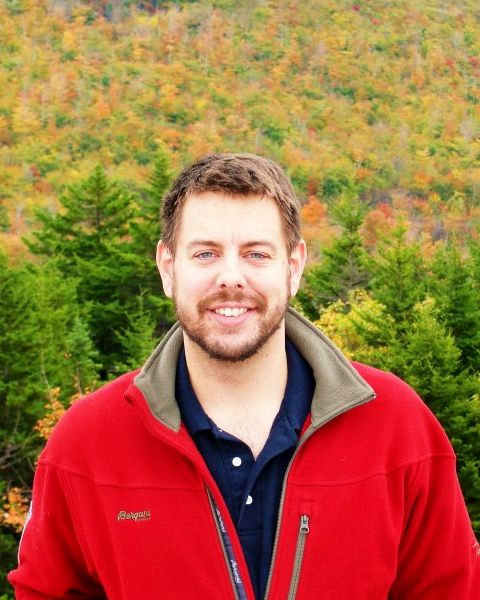
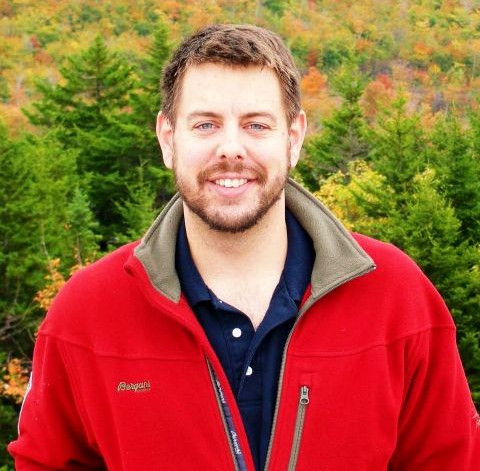
Add files via upload
the photo is resized; the info.html is reformatted

diff --git a/people_all/michael_zanetti/info.html b/people_all/michael_zanetti/info.html
@@ -3,10 +3,10 @@
 <head>
     <meta charset="UTF-8">
     <meta name="viewport" content="width=device-width, initial-scale=1.0">
-    <title>Michael Zanetti, PhD</title>
+    <title>Dr. Michael Zanetti - MSFC</title>
     <link rel="stylesheet" href="../../styles.css">
-    <!-- Load the last modified date script -->
-    <script src="../../last-modified.js"></script>
+    <!-- Load the profile page scripts -->
+    <script src="../../profile-scripts.js"></script>
 </head>
 <body>
     <div class="fixed-header">
@@ -35,44 +35,111 @@
     
     <div class="profile-container">
         <div class="profile-sidebar">
-            <img src="photo.jpg" alt="Michael Zanetti" class="profile-img">
-            <div class="contact">
-                <h2>Contact:</h2>
-                <p>ST13 / NSSTC 2068<br>320 Sparkman Dr.<br>Huntsville, AL 35805<br>Phone: (256) 961-7004<br>Email: michael.r.zanetti@nasa.gov</p>
-            </div>
-            <div class="education">
-                <h2>Education:</h2>
-                <p>BS, Central Connecticut State University, 2006<br>
-                MSc, Institut für Planetologie at the Westfälischen Wilhelms-Universität Münster, 2011<br>
-                PhD, Washington University in St Louis, 2015</p>
-            </div>
-            <div class="publications">
-                <h2>Publications:</h2>
-                <p><a href="https://ui.adsabs.harvard.edu/search/fq=%7B!type%3Daqp%20v%3D%24fq_database%7D&fq_database=database%3A%20astronomy&q=author%3A(%22Zanetti%2C%20Michael%22)&sort=date%20desc%2C%20bibcode%20desc&p_=0">Click here for publications using NASA ADS</a></p>
-            </div>
+            <img src="photo.jpg" alt="Dr. Michael Zanetti" class="profile-img">
         </div>
+        
         <div class="profile-main-content">
             <h2>Dr. Michael Zanetti</h2>
-            <p>Dr. Michael Zanetti is a planetary scientist at NASA's Marshall Space Flight Center. Originally from Southington, Connecticut, Dr. Zanetti received his B.Sc. from Central Connecticut State University (CCSU) in 2006, and a M.Sc. from the Institut für Planetologie at the Westfälischen Wilhelms-Universität Münster (WWU-M) in Münster, Germany with Dr. Harald Hiesinger in 2011. Dr. Zanetti earned his Ph.D. at Washington University in St Louis, Missouri with Dr. Bradley Jolliff in 2015. For his dissertation, Dr. Zanetti investigated the complexity of impact crater ejecta, with projects focused on the 3D reconstructive geologic mapping of the lunar crater Aristarchus, constraining the influence of self-secondary cratering on the lunar cratering chronology, and the detailed investigation impact melt glass from the Mistastin Lake Impact Structure (currently the highest temperature surface rock known on Earth).</p>
-            <p>&nbsp;</p>
-            <p>Following his dissertation, Dr. Zanetti completed a post-doctoral fellowship at the University of Western Ontario in 2018, supervised by Drs. Catherine Neish and Gordon Osinski. His post-doc work focused on using terrestrial periglacial features and gullies at the Haughton Impact Structure, Devon Island, in the Canadian High-Arctic and flood basalt lavas at Craters of the Moon National Monument in Idaho, USA as planetary analogs for Mars and the Moon, resp. This work integrated multiple remote-sensing datasets, including satellite radar data to understand how radar backscatter is affected by surface roughness variations. Field studies included the use of cutting-edge backpack-mounted mobile LiDAR scanning data collected in collaboration with colleagues at the Finnish Geospatial Research Institute in Helsinki.</p>
-            <p>&nbsp;</p>
-            <h2>Main Areas of Scientific Research:</h2>
-            <ul>
-                <li>Impact cratering ejecta processes (e.g. impact melt emplacement)</li>
-                <li>Lunar chronology</li>
-                <li>Periglacial processes on Earth and Mars</li>
-                <li>Comparative planetology to advance space exploration</li>
-                <li>Integration of scientific payloads aboard NASA's Space Launch System (SLS) rocket</li>
-            </ul>
-            <p>Dr. Zanetti joined the planetary science group at Marshall Space Flight Center in 2018, where he continues his research in mobile LiDAR scanning to facilitate terrestrial and planetary geomorphologic research. He works to integrate scientific payloads aboard NASA's Space Launch System (SLS) rocket, and works with engineering teams to promote and advocate for science as NASA ventures deeper into our Solar System.</p>
+            <h3>Planetary Scientist</h3>
+            
+            <!-- Contact Information Block -->
+            <div class="profile-contact-info">
+                <p><strong>Contact:</strong></p>
+                <p>
+                    ST13 / NSSTC 2068<br>
+                    320 Sparkman Dr.<br>
+                    Huntsville, AL 35805
+                </p>
+                <p>
+                    Phone: (256) 961-7004<br>
+                    Email: <a href="mailto:michael.r.zanetti@nasa.gov">michael.r.zanetti@nasa.gov</a>
+                </p>
+            </div>
+            
+            <!-- Biography Dropdown Menu -->
+            <div class="profile-dropdown">
+                <div class="profile-dropdown-header">
+                    <span>Biography</span>
+                    <span class="profile-dropdown-arrow">▼</span>
+                </div>
+                <div class="profile-dropdown-content">
+                    <p>Dr. Michael Zanetti is a planetary scientist at NASA's Marshall Space Flight Center. Originally from Southington, Connecticut, Dr. Zanetti received his B.Sc. from Central Connecticut State University (CCSU) in 2006, and a M.Sc. from the Institut für Planetologie at the Westfälischen Wilhelms-Universität Münster (WWU-M) in Münster, Germany with Dr. Harald Hiesinger in 2011. Dr. Zanetti earned his Ph.D. at Washington University in St Louis, Missouri with Dr. Bradley Jolliff in 2015. For his dissertation, Dr. Zanetti investigated the complexity of impact crater ejecta, with projects focused on the 3D reconstructive geologic mapping of the lunar crater Aristarchus, constraining the influence of self-secondary cratering on the lunar cratering chronology, and the detailed investigation impact melt glass from the Mistastin Lake Impact Structure (currently the highest temperature surface rock known on Earth).</p>
+                    <p>Following his dissertation, Dr. Zanetti completed a post-doctoral fellowship at the University of Western Ontario in 2018, supervised by Drs. Catherine Neish and Gordon Osinski. His post-doc work focused on using terrestrial periglacial features and gullies at the Haughton Impact Structure, Devon Island, in the Canadian High-Arctic and flood basalt lavas at Craters of the Moon National Monument in Idaho, USA as planetary analogs for Mars and the Moon, resp. This work integrated multiple remote-sensing datasets, including satellite radar data to understand how radar backscatter is affected by surface roughness variations. Field studies included the use of cutting-edge backpack-mounted mobile LiDAR scanning data collected in collaboration with colleagues at the Finnish Geospatial Research Institute in Helsinki.</p>
+                    <p>Dr. Zanetti joined the planetary science group at Marshall Space Flight Center in 2018, where he continues his research in mobile LiDAR scanning to facilitate terrestrial and planetary geomorphologic research. He works to integrate scientific payloads aboard NASA's Space Launch System (SLS) rocket, and works with engineering teams to promote and advocate for science as NASA ventures deeper into our Solar System.</p>
+                </div>
+            </div>
+            
+            <!-- Research Areas Dropdown Menu -->
+            <div class="profile-dropdown">
+                <div class="profile-dropdown-header">
+                    <span>Research Areas</span>
+                    <span class="profile-dropdown-arrow">▼</span>
+                </div>
+                <div class="profile-dropdown-content">
+                    <ul>
+                        <li><strong>Impact Cratering Processes</strong>: Investigation of impact crater ejecta processes, including impact melt emplacement.</li>
+                        <li><strong>Lunar Chronology</strong>:</li>
+                        <li><strong>Periglacial Processes</strong>: Study of periglacial features on Earth and Mars.</li>
+                        <li><strong>Comparative Planetology</strong>: Study of comparative Planetology to advance space exploration.</li>
+                        <li><strong>Space Launch System Integration</strong>: Integration of scientific payloads aboard NASA's Space Launch System (SLS) rocket.</li>
+                    </ul>
+                </div>
+            </div>
+            
+
+            <!-- Education Dropdown Menu -->
+            <div class="profile-dropdown">
+                <div class="profile-dropdown-header">
+                    <span>Education</span>
+                    <span class="profile-dropdown-arrow">▼</span>
+                </div>
+                <div class="profile-dropdown-content">
+                    <p><strong>PhD, Earth & Planetary Sciences</strong><br>
+                    Washington University in St Louis, 2015</p>
+                    
+                    <p><strong>MSc, Planetary Science</strong><br>
+                    Institut für Planetologie at the Westfälischen Wilhelms-Universität Münster, Germany, 2011</p>
+                    
+                    <p><strong>BS</strong><br>
+                    Central Connecticut State University, 2006</p>
+                </div>
+            </div>
+            
+            <!-- Professional Experience Dropdown Menu -->
+            <div class="profile-dropdown">
+                <div class="profile-dropdown-header">
+                    <span>Professional Experience</span>
+                    <span class="profile-dropdown-arrow">▼</span>
+                </div>
+                <div class="profile-dropdown-content">
+                    <p><strong>Planetary Scientist</strong><br>
+                    NASA Marshall Space Flight Center<br>
+                    2018 - Present</p>
+                    
+                    <p><strong>Post-Doctoral Fellow</strong><br>
+                    University of Western Ontario<br>
+                    2015 - 2018</p>
+                </div>
+            </div>
+            
+            <!-- Publications Dropdown Menu -->
+            <div class="profile-dropdown">
+                <div class="profile-dropdown-header">
+                    <span>Publications</span>
+                    <span class="profile-dropdown-arrow">▼</span>
+                </div>
+                <div class="profile-dropdown-content">
+                    <p><a href="https://ui.adsabs.harvard.edu/search/fq=%7B!type%3Daqp%20v%3D%24fq_database%7D&fq_database=database%3A%20astronomy&q=author%3A(%22Zanetti%2C%20Michael%22)&sort=date%20desc%2C%20bibcode%20desc&p_=0">View publications using NASA ADS</a></p>
+                </div>
+            </div>            
+            
         </div>
     </div>
     
     <div class="footer-container">
         <a href="https://www.nasa.gov/"><img src="../../nasa-large.png" alt="NASA Logo" class="footer-logo"></a>
         <div class="footer-content">
-            <p class="last-modified">Last Modified: July 9, 2021</p>
+            <p class="last-modified">Last Modified: <span id="last-modified-date">July 9, 2021</span></p>
             <p class="nasa-official">NASA Official: Caleb Fassett</p>
         </div>
         <div class="footer-links">
@@ -90,5 +157,7 @@
             </div>
         </div>
     </div>
+    
+    <!-- Dropdown functionality is now handled by profile-scripts.js -->
 </body>
 </html>
